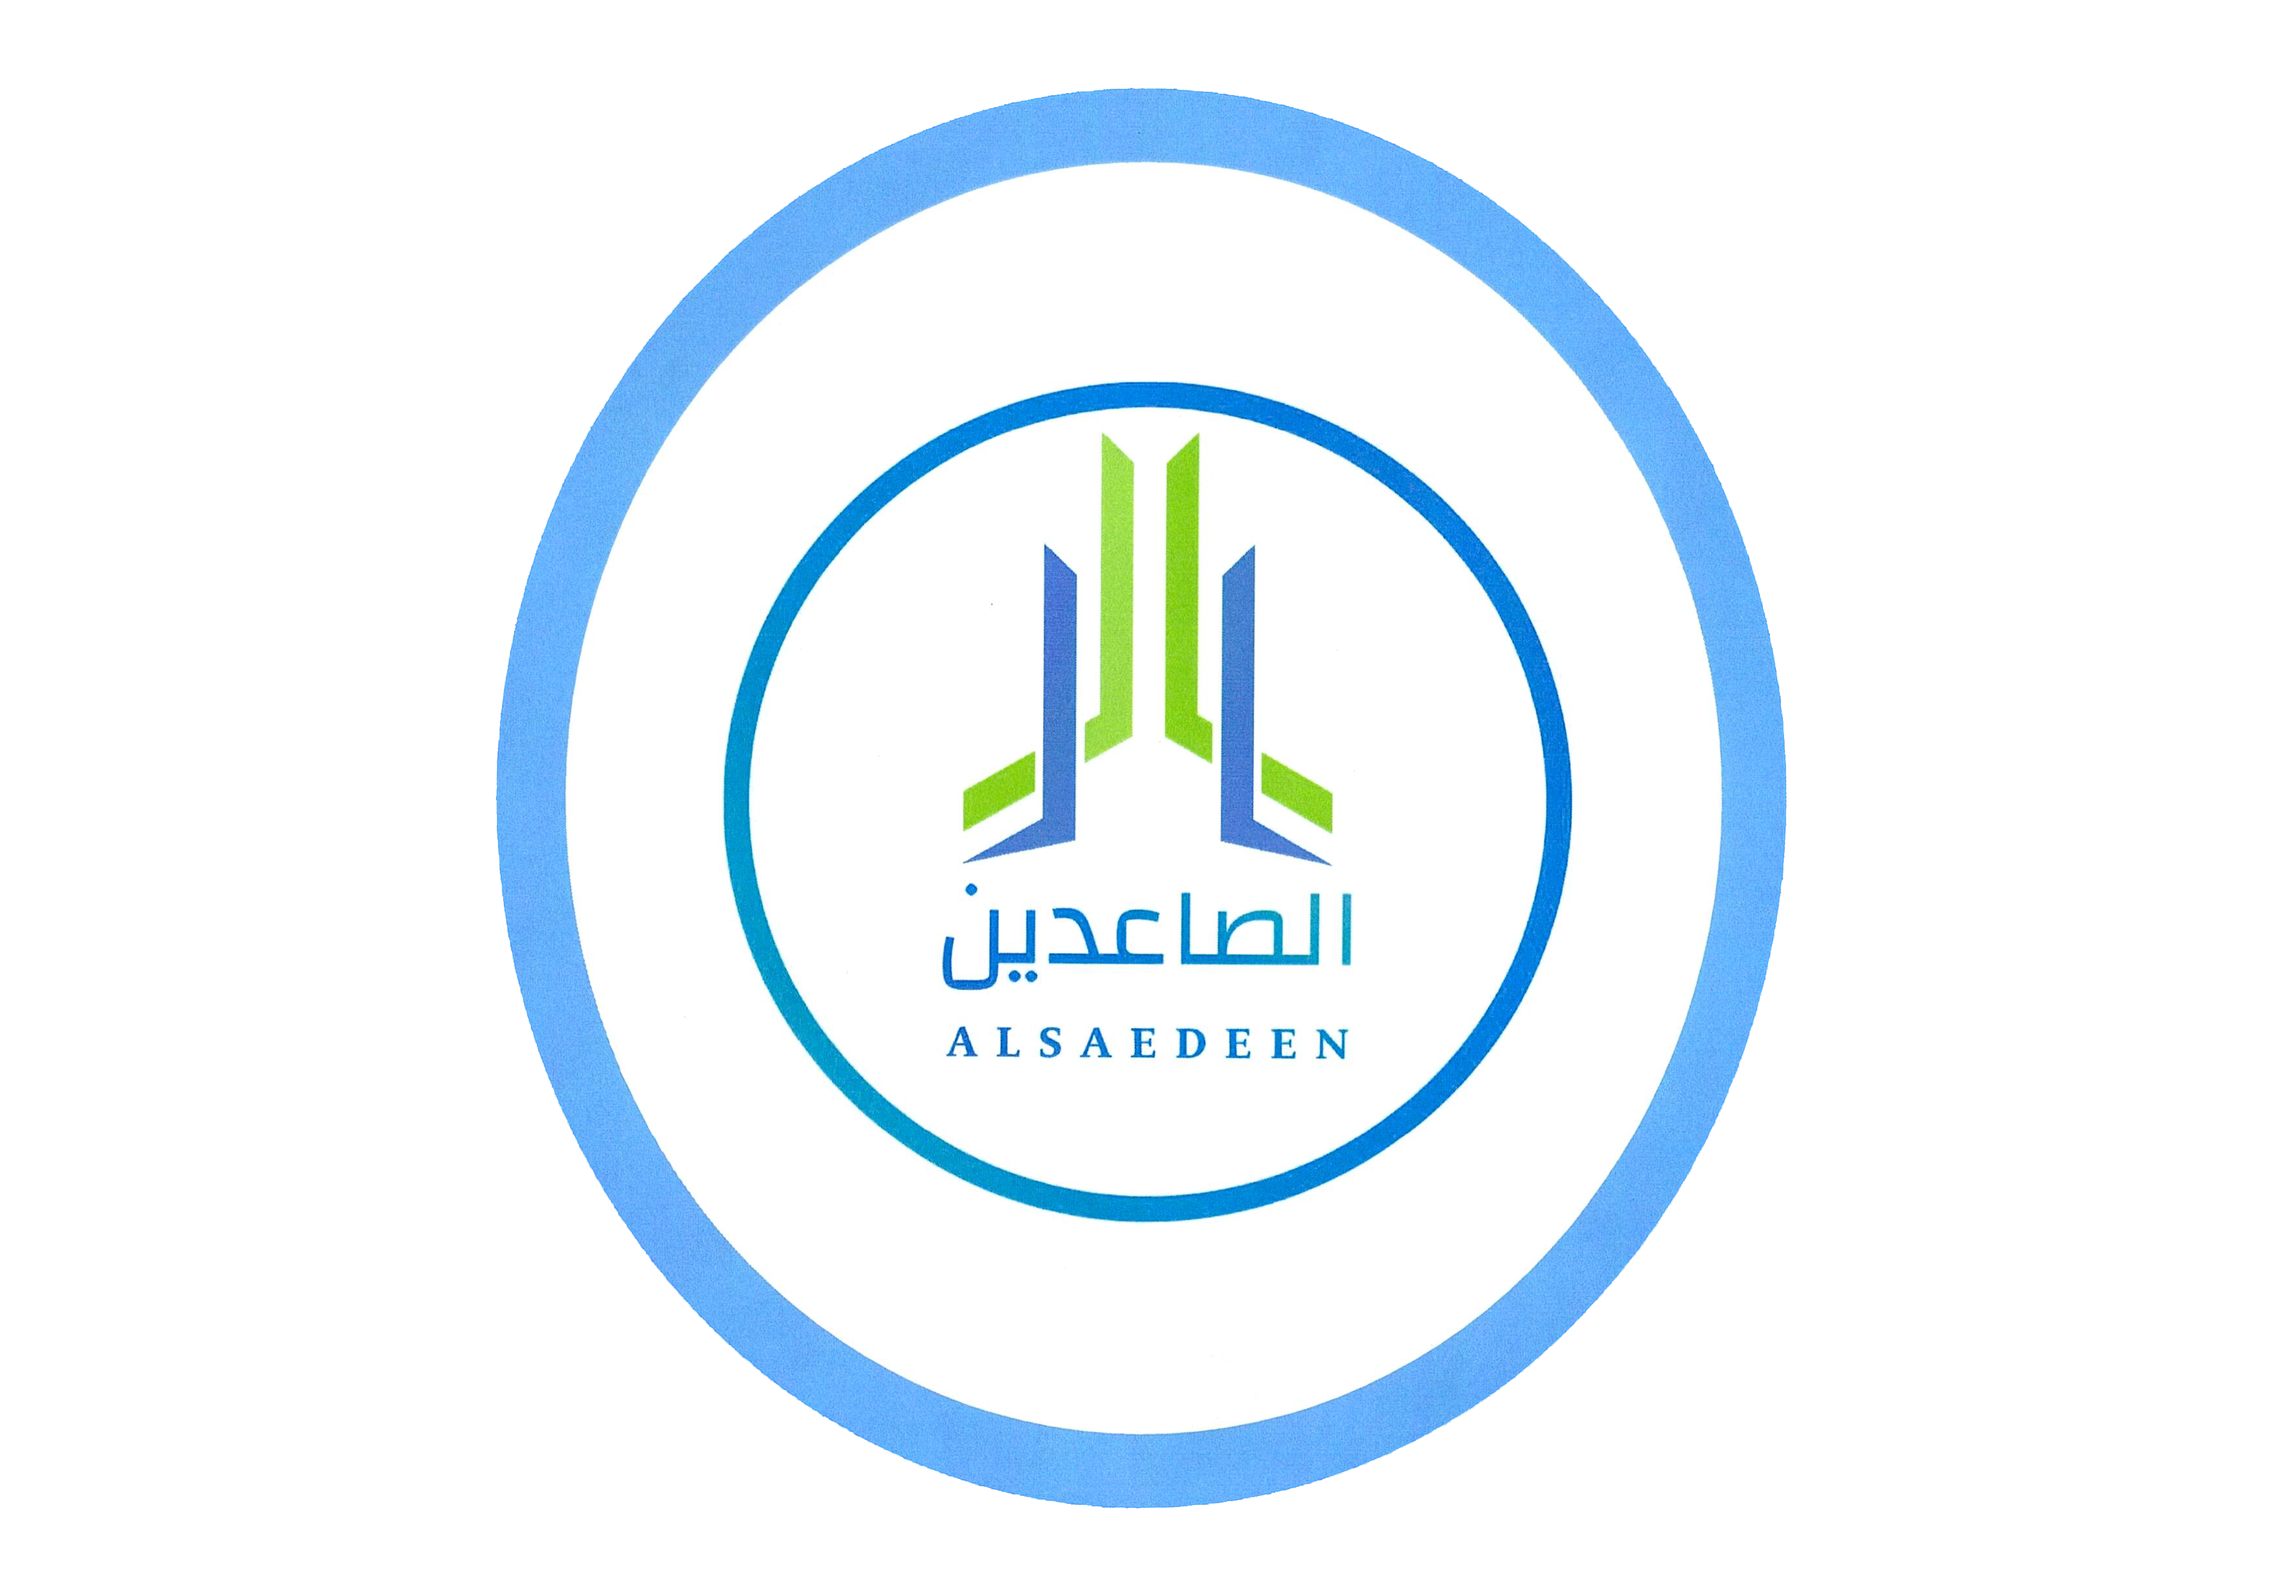
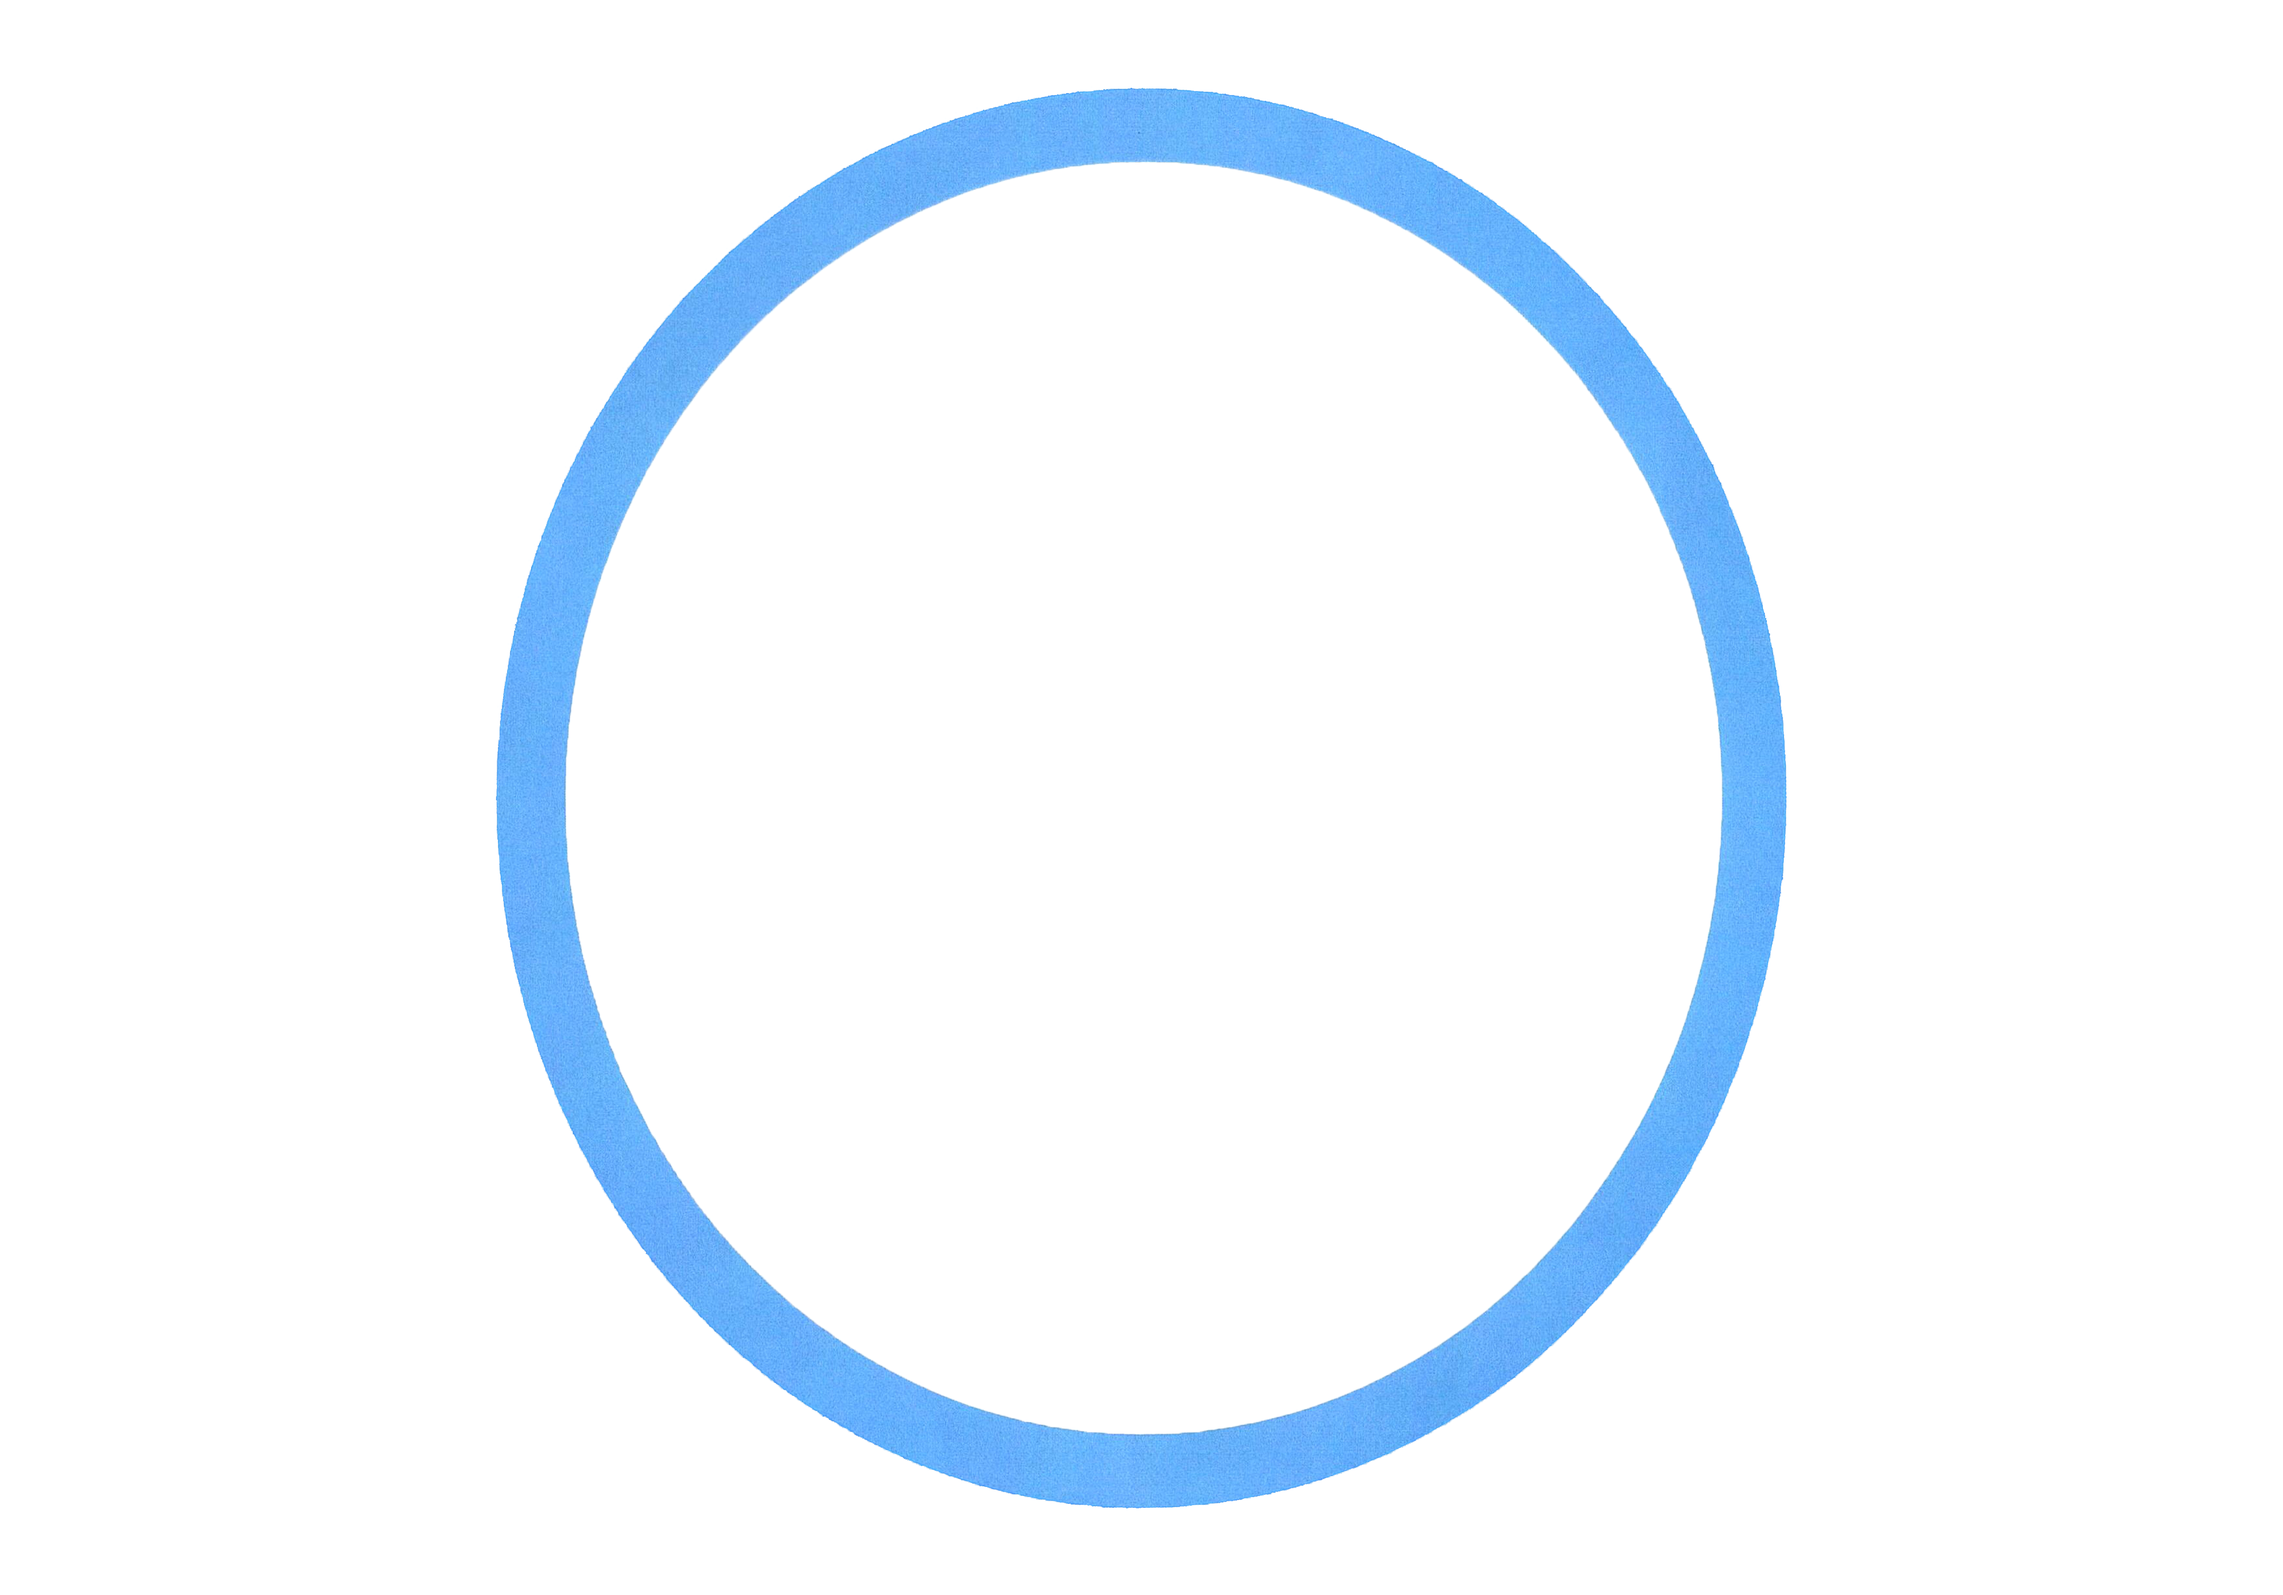
change of spinner image

diff --git a/css/spinner.css b/css/spinner.css
@@ -18,23 +18,53 @@
 
 /* Spinner container styles */
 .spinner-container {
+  position: relative;
+  width: 300px;
+  /* Match the width of the spinner ring */
+  height: 300px;
+  /* Match the height of the spinner ring */
   display: flex;
-  flex-direction: column;
   align-items: center;
+  /* Center the inner image vertically */
   justify-content: center;
+  /* Center the inner image horizontally */
 }
 
-/* Spinner image styles */
-.spinner-image {
-  width: 400px;
+/* Spinner ring styles */
+.spinner-ring {
+  width: 300px;
   /* Adjust size as needed */
-  height: 400px;
+  height: 300px;
   /* Adjust size as needed */
   border-radius: 50%;
-  /* Optional: make the image circular */
-  object-fit: cover;
-  /* Ensure the image covers the container */
+  /* Circular border */
+  border: 10px solid rgba(101, 85, 210, 0.2);
+  /* Slightly brighter light border */
+  border-top: 10px solid #4d4aa4;
+  /* Darker border on top for the spinning effect */
+  background: linear-gradient(135deg, rgba(101, 85, 210, 0.2), rgba(101, 85, 210, 0.6));
+  /* Gradient effect for brightness */
+  box-shadow: 0 0 15px rgba(101, 85, 210, 0.7);
+  /* Add a glow effect */
+  position: absolute;
+  /* Positioned within the container */
   animation: spin 1s linear infinite;
+}
+
+/* Inner image styles */
+.inner-image {
+  width: 250px;
+  /* Slightly smaller size to give more prominence to the ring */
+  height: 250px;
+  /* Adjust size as needed */
+  border-radius: 50%;
+  /* Make the inner image circular */
+  object-fit: cover;
+  /* Ensure the image fills the container while preserving aspect ratio */
+  position: absolute;
+  /* Ensure it's centered within the spinner container */
+  z-index: 20;
+  /* Ensure the inner image is on top of the spinner ring */
 }
 
 /* Keyframes for spinner rotation */
@@ -50,42 +80,42 @@
 
 /* Loading text styles */
 .loading-text {
-  margin-top: 10px;
+  margin-top: 20px;
   font-size: 16px;
-  /* Adjust size as needed */
   color: #333;
-  /* Adjust color as needed */
 }
 
 /* Responsive styles */
 @media (max-width: 1024px) {
-
-  /* Tablet styles */
-  .spinner-image {
-    width: 300px;
-    /* Adjust size for tablets */
-    height: 300px;
-    /* Adjust size for tablets */
+  .spinner-container {
+    width: 250px;
+    height: 250px;
   }
 
-  .loading-text {
-    font-size: 14px;
-    /* Adjust size for tablets */
+  .spinner-ring {
+    width: 250px;
+    height: 250px;
+  }
+
+  .inner-image {
+    width: 150px;
+    height: 150px;
   }
 }
 
 @media (max-width: 768px) {
-
-  /* Mobile styles */
-  .spinner-image {
+  .spinner-container {
     width: 200px;
-    /* Adjust size for mobile */
     height: 200px;
-    /* Adjust size for mobile */
   }
 
-  .loading-text {
-    font-size: 12px;
-    /* Adjust size for mobile */
+  .spinner-ring {
+    width: 200px;
+    height: 200px;
+  }
+
+  .inner-image {
+    width: 120px;
+    height: 120px;
   }
 }

diff --git a/index.html b/index.html
@@ -29,11 +29,12 @@
 
   <div class="spinner-overlay">
     <div class="spinner-container">
-      <img src="images/spinner.png" alt="Loading..." class="spinner-image">
+      <div class="spinner-ring"></div>
+      <img src="images/inner-image.jpg" alt="Inner Image" class="inner-image">
       <p class="loading-text" data-i18n="Loading">Loading</p>
-      <!-- <p="farewell">Goodbye</p> -->
     </div>
   </div>
+
 
   <nav class="navbar navbar-expand-lg navbar-light bg-light">
     <div class="container-fluid">
